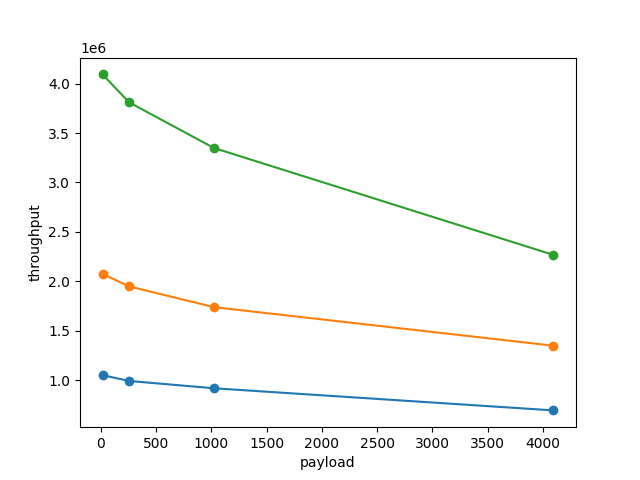
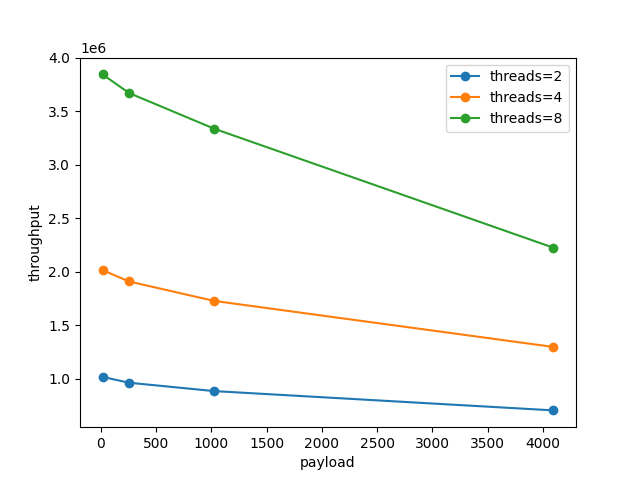
feat: add legend in pictures; style: mv imgs to img/

diff --git a/bench_master.py b/bench_master.py
@@ -5,6 +5,7 @@ import json
 import select
 import argparse
 import numpy as np
+from pathlib import Path
 import matplotlib.pyplot as plt
 
 from time import sleep
@@ -134,7 +135,7 @@ def aggregate_statics(name_buffer_map: Dict[str, str]):
     return sum(thpts), sum(latencys) / len(latencys)
 
 
-def run(server_name, server_args, client_names, clients_args, machine_config):
+def run_single_testcase(server_name, server_args, client_names, clients_args, machine_config):
 
     # (1) init server
 
@@ -229,13 +230,88 @@ def run(server_name, server_args, client_names, clients_args, machine_config):
     return thpt, lat
 
 
-def generate_bench_result_filename():
-    now = datetime.now()
-    cur = now.strftime(r"%Y-%m-%d-%H-%M-%S-%f")
-    return f"benchres_{cur}.json"
+def generate_time_str():
+    return datetime.now().strftime(r"%Y-%m-%d-%H-%M-%S-%f")
+
+def generate_bench_result_filename(time_str: str):
+    return f"benchres_{time_str}.json"
+
+def generate_picture_filename(type: str, time_str: str):
+    Path("./img/").mkdir(parents=True, exist_ok=True)
+    return f"./img/{type}_{time_str}.png"
 
 
-def main():
+def draw_testcase_pictures(one_testcase_dict: dict, time_str: str):
+    # dim 0: threads for different payload
+    plt.clf()  # refresh
+    pic = plt.axes()
+    for i in range(len(one_testcase_dict["payload"])):
+        y = one_testcase_dict["throughput"][:, i]
+        pic.plot(one_testcase_dict["threads"], y, marker='o', label=f"payload={one_testcase_dict['payload'][i]}")
+    pic.set_xlabel("threads")
+    pic.set_ylabel("throughput")
+    plt.legend()
+    pic.figure.savefig(generate_picture_filename("throughput_threads", time_str))
+
+    plt.clf()
+    pic = plt.axes()
+    for i in range(len(one_testcase_dict["payload"])):
+        y = one_testcase_dict["latency"][:, i]
+        pic.plot(one_testcase_dict["threads"], y, marker='o', label=f"payload={one_testcase_dict['payload'][i]}")
+    pic.set_xlabel("threads")
+    pic.set_ylabel("latency")
+    plt.legend()
+    pic.figure.savefig(generate_picture_filename("latency_threads", time_str))
+
+    # dim 1: payload for different threads
+    plt.clf()
+    pic = plt.axes()
+    for i in range(len(one_testcase_dict["threads"])):
+        y = one_testcase_dict["throughput"][i, :]
+        pic.plot(one_testcase_dict["payload"], y, marker='o', label=f"threads={one_testcase_dict['threads'][i]}")
+    pic.set_xlabel("payload")
+    pic.set_ylabel("throughput")
+    plt.legend()
+    pic.figure.savefig(generate_picture_filename("throughput_payload", time_str))
+    pic.set_xscale('log')
+    pic.figure.savefig(generate_picture_filename("throughput_payload_log", time_str))
+
+    plt.clf()
+    pic = plt.axes()
+    for i in range(len(one_testcase_dict["threads"])):
+        y = one_testcase_dict["latency"][i, :]
+        pic.plot(one_testcase_dict["payload"], y, marker='o', label=f"threads={one_testcase_dict['threads'][i]}")
+    pic.set_xlabel("payload")
+    pic.set_ylabel("latency")
+    plt.legend()
+    pic.figure.savefig(generate_picture_filename("latency_payload", time_str))
+    pic.set_xscale('log')
+    pic.figure.savefig(generate_picture_filename("latency_payload_log", time_str))
+
+
+def draw_compare_testcase_pictures(testcases_list: List[dict], time_str: str):
+
+    if len(testcases_list) <= 1: return
+
+    # find the same payload & threads for all testcases
+    
+    common_payload_set = set(testcases_list[0]["payload"])
+    common_threads_set = set(testcases_list[0]["threads"])
+    for i in range(1, len(testcases_list)):
+        this_payload_set = set(testcases_list[i]["payload"])
+        this_threads_set = set(testcases_list[i]["threads"])
+        common_payload_set &= this_payload_set
+        common_threads_set &= this_threads_set
+    
+    common_payload_list = list(common_payload_set).sort()
+    common_threads_list = list(common_threads_set).sort()
+
+    print(f"--- common_payload_list = {common_payload_list}, common_threads_list = {common_threads_list}")
+
+    # draw pictures
+
+
+def main_benchmark():
     args = make_args()
     machine_config = load_config(args.machine)
     connection_config = load_config(args.connect)
@@ -252,13 +328,14 @@ def main():
 
     for clients, server, thread_count_list, payload_list in cstp_pairs:
 
-        this_time_filename = generate_bench_result_filename()
-        with open(this_time_filename, "a+") as output_f:
+        this_time_str = generate_time_str()
+        bench_result_filename = generate_bench_result_filename(this_time_str)
+        with open(bench_result_filename, "a+") as output_f:
             output_f.write("[ \n")  # this space is fit for ",\n"
 
         print(f"\033[96m=== run: server = {server}, clients = {clients} ===\033[0m")
         print(f"\033[96m===      thread_count = {thread_count_list}, payload = {payload_list} ===\033[0m")
-        print(f"\033[96m=== output will all print to {this_time_filename} ===\033[0m")
+        print(f"\033[96m=== output will all print to {bench_result_filename} ===\033[0m")
 
         if machine_config[server]["user"] == "YOUR_USER_NAME":
             raise ValueError("Did you forget to change the user in `./configs/machines.ymal`?")
@@ -322,7 +399,7 @@ def main():
                     })
                     client_configs.append(client_config)
                 
-                thpt, lat = run(
+                thpt, lat = run_single_testcase(
                     server_name=server, 
                     server_args=server_config, 
                     client_names=clients, 
@@ -333,7 +410,7 @@ def main():
                 one_testcase_dict["throughput"][t][p] = thpt
                 one_testcase_dict["latency"][t][p] = lat
 
-                with open(this_time_filename, "a+") as output_f:
+                with open(bench_result_filename, "a+") as output_f:
                     result = {
                         'throughput': thpt,
                         'latency': lat,
@@ -353,65 +430,25 @@ def main():
                 print(f"--- sleep {w} seconds\n\n")
                 sleep(w)
 
-            # for thread_count in such as [1, 36]:
-        # for payload in  such as [16, 256, 512, 8192]:
+            # END for thread_count in such as [1, 36]:
+        # END for payload in  such as [16, 256, 512, 8192]:
 
-        with open(this_time_filename, 'rb+') as output_f:
+        with open(bench_result_filename, 'rb+') as output_f:
             output_f.seek(-2, os.SEEK_END)
             output_f.truncate()
-        with open(this_time_filename, "a+") as output_f:
+        with open(bench_result_filename, "a+") as output_f:
             output_f.write("\n]")
 
-        # dim 0: threads
-        plt.clf()  # refresh
-        pic = plt.axes()
-        for i in range(np.shape(one_testcase_dict["throughput"])[1]):
-            y = one_testcase_dict["throughput"][:, i]
-            pic.plot(one_testcase_dict["threads"], y, marker='o')
-        pic.set_xlabel("threads")
-        pic.set_ylabel("throughput")
-        pic.figure.savefig(f'./throughput_threads_{datetime.now().strftime(r"%Y-%m-%d-%H-%M-%S-%f")}.png')
-
-        plt.clf()
-        pic = plt.axes()
-        for i in range(np.shape(one_testcase_dict["latency"])[1]):
-            y = one_testcase_dict["latency"][:, i]
-            pic.plot(one_testcase_dict["threads"], y, marker='o')
-        pic.set_xlabel("threads")
-        pic.set_ylabel("latency")
-        pic.figure.savefig(f'./latency_threads_{datetime.now().strftime(r"%Y-%m-%d-%H-%M-%S-%f")}.png')
-
-        # dim 1: payload
-        plt.clf()
-        pic = plt.axes()
-        for i in range(np.shape(one_testcase_dict["throughput"])[0]):
-            y = one_testcase_dict["throughput"][i, :]
-            pic.plot(one_testcase_dict["payload"], y, marker='o')
-        pic.set_xlabel("payload")
-        pic.set_ylabel("throughput")
-        pic.figure.savefig(f'./throughput_payload_{datetime.now().strftime(r"%Y-%m-%d-%H-%M-%S-%f")}.png')
-        pic.set_xscale('log')
-        pic.figure.savefig(f'./throughput_payload_log_{datetime.now().strftime(r"%Y-%m-%d-%H-%M-%S-%f")}.png')
-
-        pic = plt.axes()
-        for i in range(np.shape(one_testcase_dict["latency"])[0]):
-            y = one_testcase_dict["latency"][i, :]
-            pic.plot(one_testcase_dict["payload"], y, marker='o')
-        pic.set_xlabel("payload")
-        pic.set_ylabel("latency")
-        pic.figure.savefig(f'./latency_payload_{datetime.now().strftime(r"%Y-%m-%d-%H-%M-%S-%f")}.png')
-        pic.set_xscale('log')
-        pic.figure.savefig(f'./latency_payload_log_{datetime.now().strftime(r"%Y-%m-%d-%H-%M-%S-%f")}.png')
+        draw_testcase_pictures(one_testcase_dict, this_time_str)
 
         print("--- copy it if you need")
         print(one_testcase_dict)
 
         all_testcases_dict_list.append(one_testcase_dict)
 
-    # for clients, server, thread_count_list, payload_list in cstp_pairs
+    # END for clients, server, thread_count_list, payload_list in cstp_pairs
 
-    # todo: use this to draw pictures
-    all_testcases_dict_list
+    draw_compare_testcase_pictures(all_testcases_dict_list, this_time_str)
 
 
 def new_config():
@@ -430,4 +467,4 @@ def new_config():
 
 if __name__ == '__main__':
     new_config()
-    main()
+    main_benchmark()

diff --git a/README.md b/README.md
@@ -39,7 +39,7 @@ vim ./configs/connections.yaml
 python3 bench_master.py
 ```
 
-Results will output to `benchres_*.json` and `*.png`, such as
+Results will output to `benchres_<time>.json` and `img/*_<time>.png`, such as
 
 ```json
 [ 
